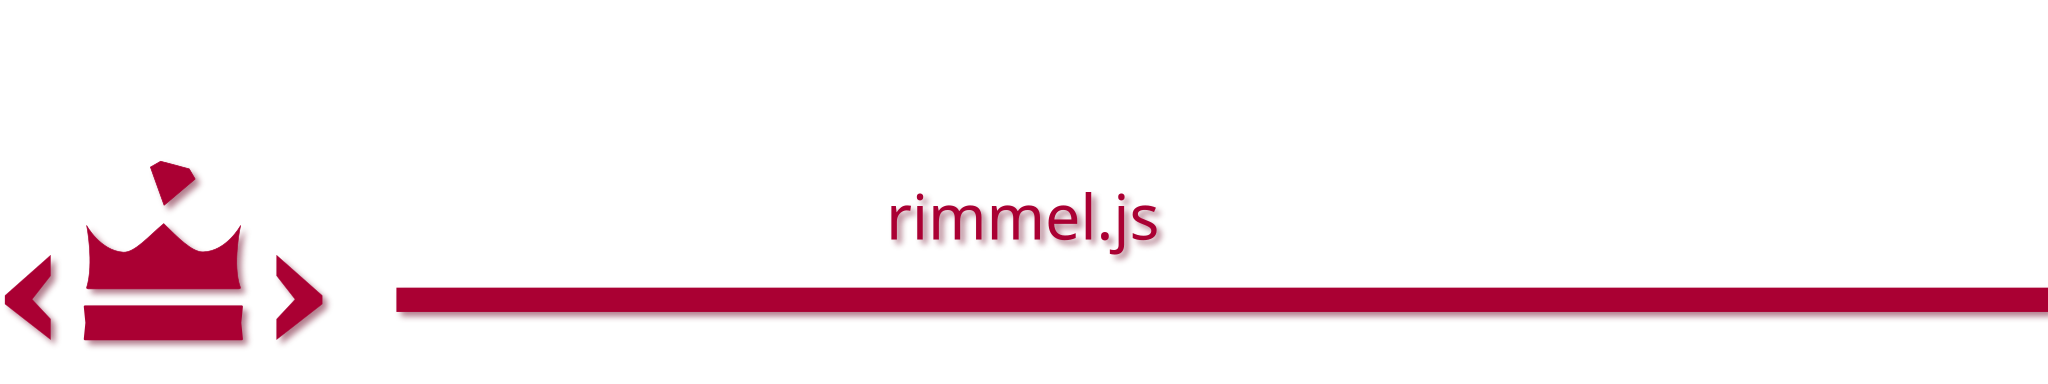
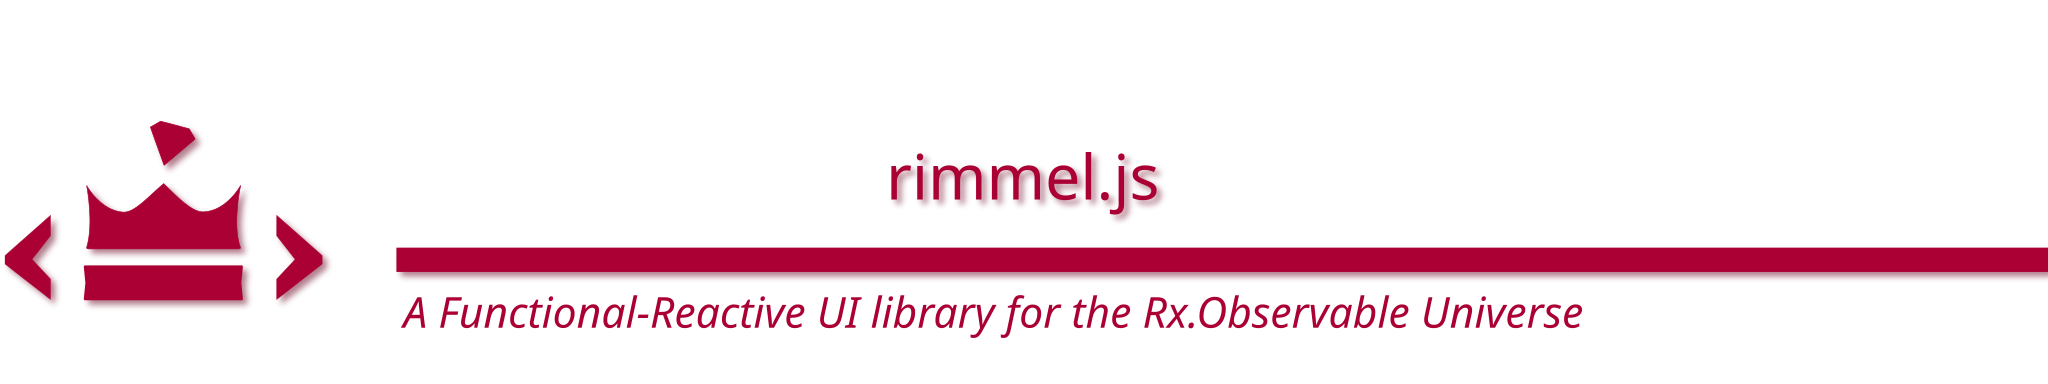
docs

Changed region(s): [[0.0, 0.3125, 1.0, 0.9062]]

diff --git a/README.md b/README.md
@@ -1,8 +1,5 @@
 <img src="docs/assets/github-hero.png" alt="Rimmel.js" style="text-align: start; max-width: 100%;">
-
-_A Functional-Reactive UI library for the Rx.Observable Universe_
-
-<br><br><br>
+<br><br>
 
 Rimmel lets you create a whole new world of powerful HTML templates and webapps using Observables and Promises as first-class citizens.<br>
 
@@ -42,7 +39,7 @@ The result is then "sinked" into the `<span>` element at the end.
 <img src="docs/assets/how-rimmel-works-6.png" alt="How RimmelJS Works">
 
 <div class="playground-link">
-<a href="https://codepen.io/fourtyeighthours/pen/bGKRKqq?editors=0111"><img src="docs/assets/try-it-button.png" valign="middle" height="40"> Rimmel Hello World</a> on Codepen.
+<a href="https://codepen.io/fourtyeighthours/pen/bGKRKqq?editors=0111"><img src="docs/assets/try-it-button.png" valign="middle" height="40"></a>&nbsp;&nbsp;&nbsp;&nbsp;<a href="https://codepen.io/fourtyeighthours/pen/bGKRKqq?editors=0111">Rimmel Hello World</a> on Codepen.
 </div>
 
 <br><br><br><hr><br><br><br>
@@ -140,7 +137,7 @@ document.getElementById('rimmel-root').innerHTML = ColorPicker([255, 128, 64])
 <br><br>
 
 <div class="playground-link">
-  &nbsp; &nbsp; &nbsp; &nbsp; &nbsp; <a href="https://codepen.io/fourtyeighthours/pen/ExJOObG"><img src="docs/assets/try-it-button.png" valign="middle" height="40"> &nbsp; &nbsp; &nbsp;  Hello World Plus</a> on Codepen
+<a href="https://codepen.io/fourtyeighthours/pen/ExJOObG"><img src="docs/assets/try-it-button.png" valign="middle" height="40"></a>&nbsp;&nbsp;&nbsp;&nbsp;<a href="https://codepen.io/fourtyeighthours/pen/ExJOObG">Hello World Plus</a> on Codepen
 </div>
 <br><br>
 
@@ -400,7 +397,7 @@ Promises and Observables get merged whenever they resolve/emit.
 
 <br><br>
 <div class="playground-link">
-  &nbsp; &nbsp; &nbsp; &nbsp; &nbsp; <a href="https://codepen.io/fourtyeighthours/pen/YzMgXoL?editors=0010"><img src="docs/assets/try-it-button.png" valign="middle" height="40"> &nbsp; &nbsp; &nbsp; &nbsp; Draggable Mixin</a> on Codepen
+<a href="https://codepen.io/fourtyeighthours/pen/YzMgXoL?editors=0010"><img src="docs/assets/try-it-button.png" valign="middle" height="40"></a>&nbsp;&nbsp;&nbsp;&nbsp;<a href="https://codepen.io/fourtyeighthours/pen/YzMgXoL?editors=0010">Draggable Mixin</a> on Codepen
 </div>
 
 <br><br><br>
